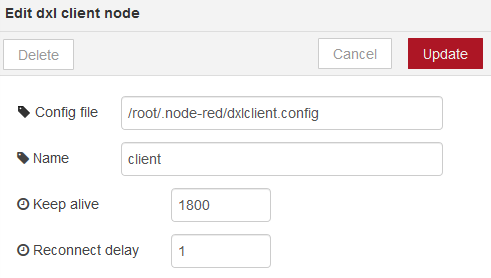
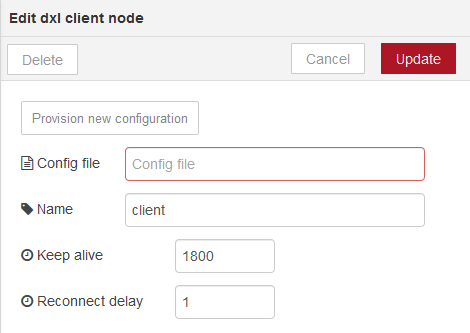
Updating docs for ffb5f95

diff --git a/jsdoc/tutorial-configuration.html b/jsdoc/tutorial-configuration.html
@@ -32,7 +32,8 @@
 configuration created by following the steps on this page can be used in
 conjunction with the other samples in the Node-RED OpenDXL contribution package.</p>
 <p>Prior to setting up a DXL client configuration in Node-RED, make sure you have
-completed the <a href="https://opendxl.github.io/opendxl-client-javascript/jsdoc/tutorial-provisioning.html">client provisioning</a>
+completed the 
+<a href="https://opendxl.github.io/opendxl-client-javascript/jsdoc/tutorial-provisioning.html">client provisioning</a>
 step.</p>
 <p>In order to connect to the DXL fabric, each of the OpenDXL nodes need to be
 associated with a <code>dxl client</code>
@@ -72,10 +73,43 @@ of the screen:</p>
 <p><img src="images/edit-config-node.png" alt="Edit Config Node"></p>
 <p>The value in the <code>Config file</code> text box determines the DXL client
 configuration file that the client node will use to determine how to connect
-to the DXL fabric. Change this value to the location of the
-<code>dxlclient.config</code> file which you generated during the
-<a href="https://opendxl.github.io/opendxl-client-javascript/jsdoc/tutorial-provisioning.html">provisioning step</a>
-and press the <code>Update</code> button to commit the change.</p>
+to the DXL fabric.</p>
+<p>If you have already provisioned the Node-RED client
+configuration, you can change this value to the location of the
+<code>dxlclient.config</code> file and press the <code>Update</code> button to commit the change.
+You can then skip the remainder of the steps in this section.</p>
+<p>If you have not yet provisioned the Node-RED client configuration, you can
+provision the configuration from the Node-RED user interface by following
+the steps below.</p>
+</li>
+<li><p>Click on the <code>Provision new configuration</code> button. This should open up a
+client provisioning window.</p>
+<p><img src="images/create-provision-config-empty.png" alt="Create Provision Config Empty"></p>
+</li>
+<li><p>Fill in values for the provisioning properties in the window.</p>
+<p>Enter the hostname or IP address of a
+provisioning server in the <code>Host</code> field and a <code>Username</code> and <code>Password</code>
+of a user authorized to perform the provisioning operation. In the <code>Name</code>
+field, enter the value which the provisioning server should store in the
+Common Name (CN) portion of the subject in the client certificate.</p>
+<p>The <code>Config dir</code> value controls the location on the Node-RED server where
+the configuration will be stored. The default value for this directory is
+a subdirectory named <code>dxl</code> under the Node-RED user directory. You may want
+to set this to a unique directory for the client configuration if you
+intend to use multiple DXL client configuration nodes in Node-RED. See
+the <a href="https://nodered.org/docs/configuration">Node-RED Configuration</a>
+documentation for more information on the Node-RED user directory.</p>
+<p><img src="images/create-provision-config-filled-in.png" alt="Create Provision Config Filled In"></p>
+</li>
+<li><p>Press the <code>Provision</code> button to complete the provisioning operation. If the
+operation succeeds, a message like the following should appear briefly:</p>
+<p><img src="images/provision-success.png" alt="Provision Success"></p>
+<p>The <code>client</code> node edit window should then reappear, with the location of the
+newly generated <code>dxlclient.config</code> file displayed for the <code>Config file</code>
+property:</p>
+<p><img src="images/edit-config-node-config-file.png" alt="Edit Config Node With Config File"></p>
+</li>
+<li><p>Press the <code>Update</code> button to store the new client settings.</p>
 </li>
 </ol>
 <h3 id="manually-creating-a-configuration-node">Manually Creating a Configuration Node</h3>
@@ -91,9 +125,23 @@ panel.</p>
 </li>
 <li><p>Click on the <code>pencil</code> icon to the right of the <code>Add new dxl-client...</code>
 dropdown entry. This should open up an edit dialog box for a new client
-configuration node. Enter the location of the DXL configuration file on your
-Node-RED server and a <code>Name</code> that Node-RED can use to associate with the
-configuration:</p>
+configuration node.</p>
+<p>The value in the <code>Config file</code> text box determines the DXL client
+configuration file that the client node will use to determine how to connect
+to the DXL fabric.</p>
+<p>If you have already provisioned the Node-RED client
+configuration, you can change this value to the location of the
+<code>dxlclient.config</code> file.</p>
+<p>If you have not yet provisioned the Node-RED client configuration, you can
+provision the configuration from the Node-RED user interface by clicking on
+the <code>Provision new configuration</code> button and filling in the provisioning
+information on the subsequent window which is displayed. For more information
+on filling out the values on the provisioning configuration window, see the
+steps in the
+<a href="#manually-creating-a-configuration-node">Manually Creating a Configuration Node</a>
+section.</p>
+<p>Once the <code>Config file</code> has been selected, enter a <code>Name</code> that Node-RED can
+associate with the configuration:</p>
 <p><img src="images/add-config-node.png" alt="Add Config Node"></p>
 </li>
 <li><p>Press the <code>Add</code> button to create the new configuration node. The

diff --git a/jsdoc/tutorial-installation.html b/jsdoc/tutorial-installation.html
@@ -44,7 +44,7 @@ package installed automatically.</p>
 UI, version 0.18.0 or newer of Node-RED should be installed.</p>
 </blockquote>
 </li>
-<li><p>OpenDXL JavaScript Client (Node.js) library installed</p>
+<li><p>OpenDXL JavaScript Client (Node.js) library installed.</p>
 <ul>
 <li><a href="https://github.com/opendxl/opendxl-client-javascript">https://github.com/opendxl/opendxl-client-javascript</a></li>
 </ul>
@@ -56,9 +56,33 @@ JavaScript Client library before installing the Node-RED OpenDXL
 contribution package.</p>
 </blockquote>
 </li>
-<li><p>The OpenDXL JavaScript Client (Node.js) prerequisites must be satisfied</p>
+<li><p>The OpenDXL JavaScript Client (Node.js) prerequisites must be satisfied.</p>
 <ul>
 <li><a href="https://opendxl.github.io/opendxl-client-javascript/jsdoc/tutorial-installation.html">https://opendxl.github.io/opendxl-client-javascript/jsdoc/tutorial-installation.html</a></li>
+</ul>
+</li>
+<li><p>If you intend to provision the Node-RED DXL client configuration from the
+Node-RED UI, as described in the
+<a href="tutorial-configuration.html">Client Configuration</a> section, you must ensure that
+an OpenSSL executable (separate from Node.js itself) is installed. The
+provisioning operation uses OpenSSL to generate private keys and certificate
+signing requests.</p>
+<p>For Windows, OpenSSL can be downloaded from the following location:</p>
+<ul>
+<li><a href="http://www.slproweb.com/products/Win32OpenSSL.html">http://www.slproweb.com/products/Win32OpenSSL.html</a></li>
+</ul>
+<p>Select the Win32 OpenSSL Light or Win64 OpenSSL Light package, depending on
+your architecture (32-bit or 64-bit).</p>
+<p>If a message occurs during setup indicating <code>...critical component is
+missing: Microsoft Visual C++ 2008 Redistributables</code>, cancel the setup
+and download one of the following packages (based on your architecture):</p>
+<ul>
+<li><p>Visual C++ 2008 Redistributables (x86), available at:</p>
+<p><a href="http://www.microsoft.com/downloads/details.aspx?familyid=9B2DA534-3E03-4391-8A4D-074B9F2BC1BF">http://www.microsoft.com/downloads/details.aspx?familyid=9B2DA534-3E03-4391-8A4D-074B9F2BC1BF</a></p>
+</li>
+<li><p>Visual C++ 2008 Redistributables (x64), available at:</p>
+<p><a href="http://www.microsoft.com/downloads/details.aspx?familyid=bd2a6171-e2d6-4230-b809-9a8d7548c1b6">http://www.microsoft.com/downloads/details.aspx?familyid=bd2a6171-e2d6-4230-b809-9a8d7548c1b6</a></p>
+</li>
 </ul>
 </li>
 <li><p>Node.js 4.0 or higher installed.</p>
@@ -121,8 +145,8 @@ directory for Node-RED.</p>
 <pre class="prettyprint source lang-sh"><code>cd ~/.node-red</code></pre><p>For Windows, run the following command:</p>
 <pre class="prettyprint source lang-sh"><code>cd %HOMEPATH%\.node-red</code></pre><p>To install the library from a local tarball for a Mac or Linux-based operating
 system, run the following command:</p>
-<pre class="prettyprint source lang-sh"><code>npm install ./lib/opendxl-node-red-contrib-dxl-0.1.1.tgz --save</code></pre><p>To install the library from a local tarball for Windows, run:</p>
-<pre class="prettyprint source lang-sh"><code>npm install .\lib\opendxl-node-red-contrib-dxl-0.1.1.tgz --save</code></pre><p>To install the library via the
+<pre class="prettyprint source lang-sh"><code>npm install ./lib/opendxl-node-red-contrib-dxl-0.1.2.tgz --save</code></pre><p>To install the library from a local tarball for Windows, run:</p>
+<pre class="prettyprint source lang-sh"><code>npm install .\lib\opendxl-node-red-contrib-dxl-0.1.2.tgz --save</code></pre><p>To install the library via the
 <a href="https://www.npmjs.com/package/@opendxl/node-red-contrib-dxl">npm package registry</a>,
 run the following command:</p>
 <pre class="prettyprint source lang-sh"><code>npm install @opendxl/node-red-contrib-dxl --save</code></pre><p>After the installation is complete, restart Node-RED and browse to your

diff --git a/jsdoc/nodes_dxl-client.js.html b/jsdoc/nodes_dxl-client.js.html
@@ -52,13 +52,13 @@ var DEFAULT_CONFIG_FILE_NAME = 'dxlclient.config'
  */
 
 /**
-* @classdesc Event messages are sent using the {@link DxlClient#sendEvent} method
-*   of a client instance. Event messages are sent by one publisher and received
-*   by one or more recipients that are currently subscribed to the topic
+ * @classdesc Event messages are sent using the {@link DxlClient#sendEvent} method
+ *   of a client instance. Event messages are sent by one publisher and received
+ *   by one or more recipients that are currently subscribed to the topic
  *  associated with the event (otherwise known as one-to-many).
-* @external Event
-* @see {@link https://opendxl.github.io/opendxl-client-javascript/jsdoc/Event.html}
-*/
+ * @external Event
+ * @see {@link https://opendxl.github.io/opendxl-client-javascript/jsdoc/Event.html}
+ */
 
 /**
  * @classdesc Request messages are used when invoking a method on a remote
@@ -260,7 +260,7 @@ module.exports = function (RED) {
      * Adds an event callback to the client for the specified topic. The
      * callback will be invoked when [DxlClient]{@link external:DxlClient}
      * messages are received by the client on the specified topic.
-      * @param {String} topic - Topic to receive
+     * @param {String} topic - Topic to receive
      *   [DxlClient]{@link external:DxlClient} messages on. An empty string or
      *   null value indicates that the callback should receive messages for all
      *   topics (no filtering).
@@ -352,7 +352,7 @@ module.exports = function (RED) {
      */
     this.registerServiceAsync = function (serviceType, callbacksByTopic) {
       var serviceInfo = new ServiceRegistrationInfo(node.dxlClient,
-          serviceType)
+        serviceType)
       serviceInfo.addTopics(callbacksByTopic)
       node.dxlClient.registerServiceAsync(serviceInfo)
       return serviceInfo
@@ -385,6 +385,57 @@ module.exports = function (RED) {
   }
 
   RED.nodes.registerType('dxl-client', DxlClientNode)
+
+  RED.httpAdmin.post('/dxl-client/provision-config',
+    RED.auth.needsPermission('dxl-client.write'), function (request, response) {
+      var body = request.body
+      if (typeof body === 'object') {
+        try {
+          Config.provisionConfig(body.configDir, body.commonOrCsrFileName,
+            body.hostInfo,
+            {
+              doneCallback: function (error) {
+                if (error) {
+                  response.status(500).send(error.message)
+                } else {
+                  response.sendStatus(200)
+                }
+              }
+            })
+        } catch (err) {
+          response.status(500).send(err.message)
+        }
+      } else {
+        response.status(400).send('Request body missing')
+      }
+    }
+  )
+
+  RED.httpAdmin.get('/dxl-client/defaults',
+    function (request, response) {
+      response.status(200).send({
+        configDir: path.join(RED.settings.userDir || '', 'dxl')
+      })
+    }
+  )
+
+  RED.httpAdmin.get('/dxl-client/provisioned-files',
+    function (request, response) {
+      var existingFiles = []
+      var configDir = request.query.configDir
+      if (fs.existsSync(configDir)) {
+        var filesToCheck = [
+          'ca-bundle.crt', 'client.crt', 'client.csr',
+          'client.key', 'dxlclient.config']
+        filesToCheck.forEach(function (fileToCheck) {
+          if (fs.existsSync(path.join(configDir, fileToCheck))) {
+            existingFiles.push(fileToCheck)
+          }
+        })
+      }
+      response.status(200).send(existingFiles)
+    }
+  )
 }
 </code></pre>
         </article>
